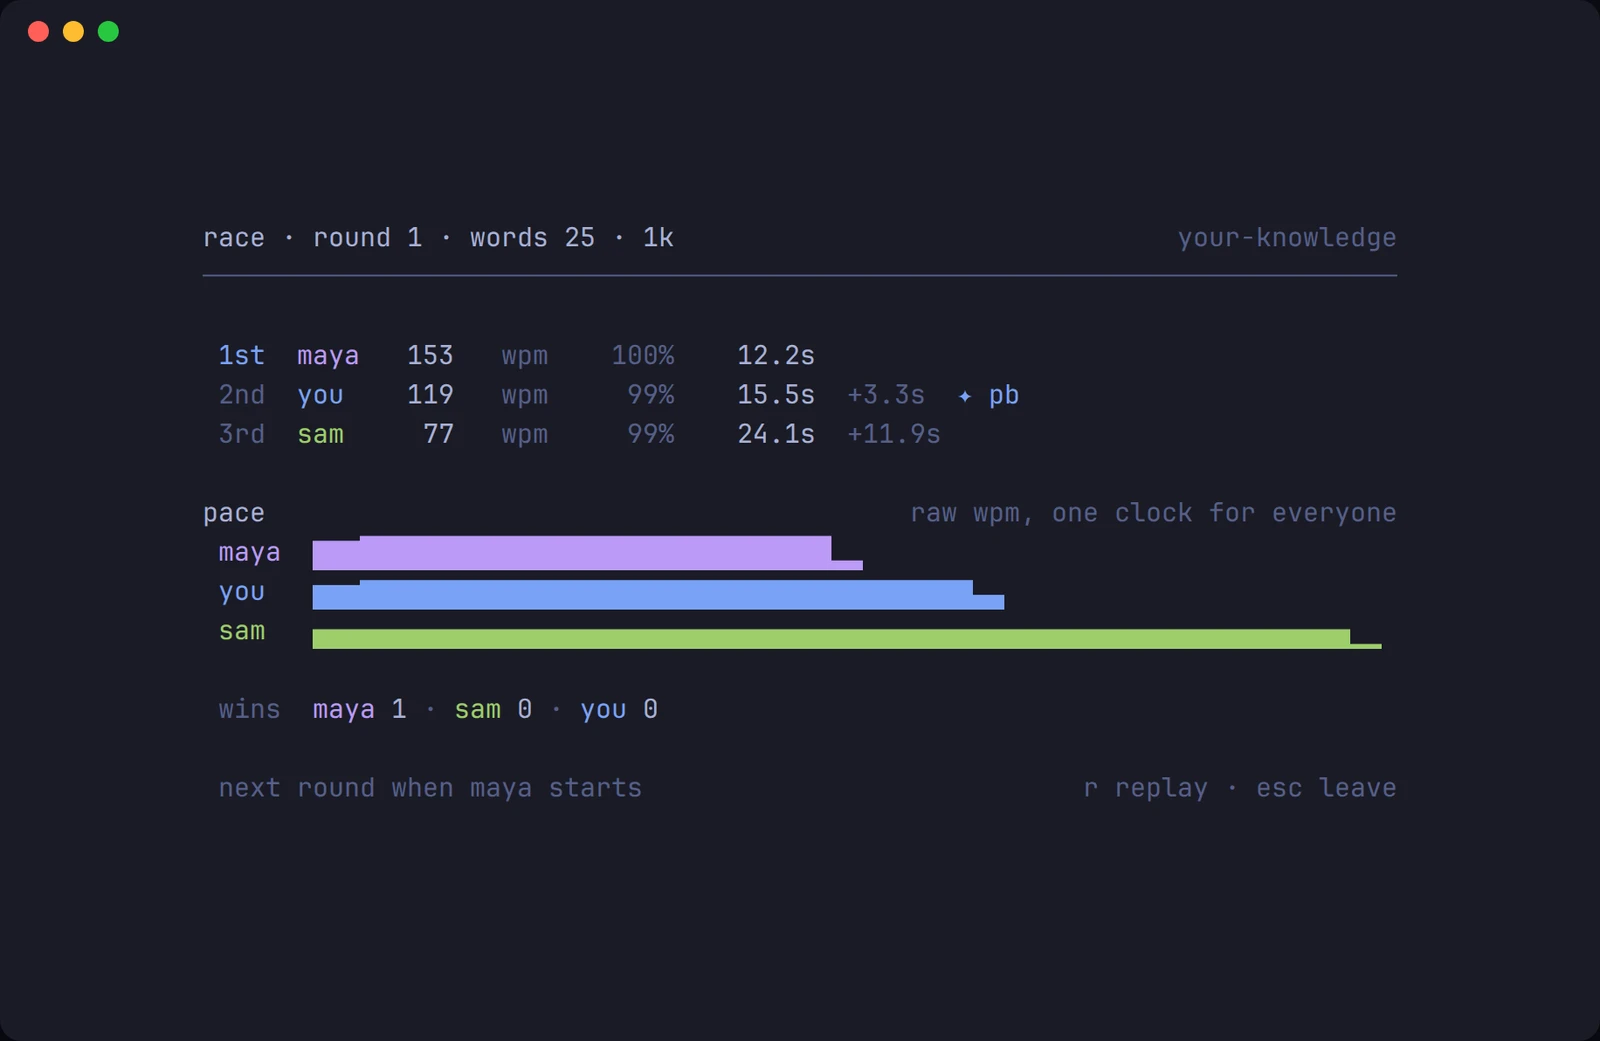
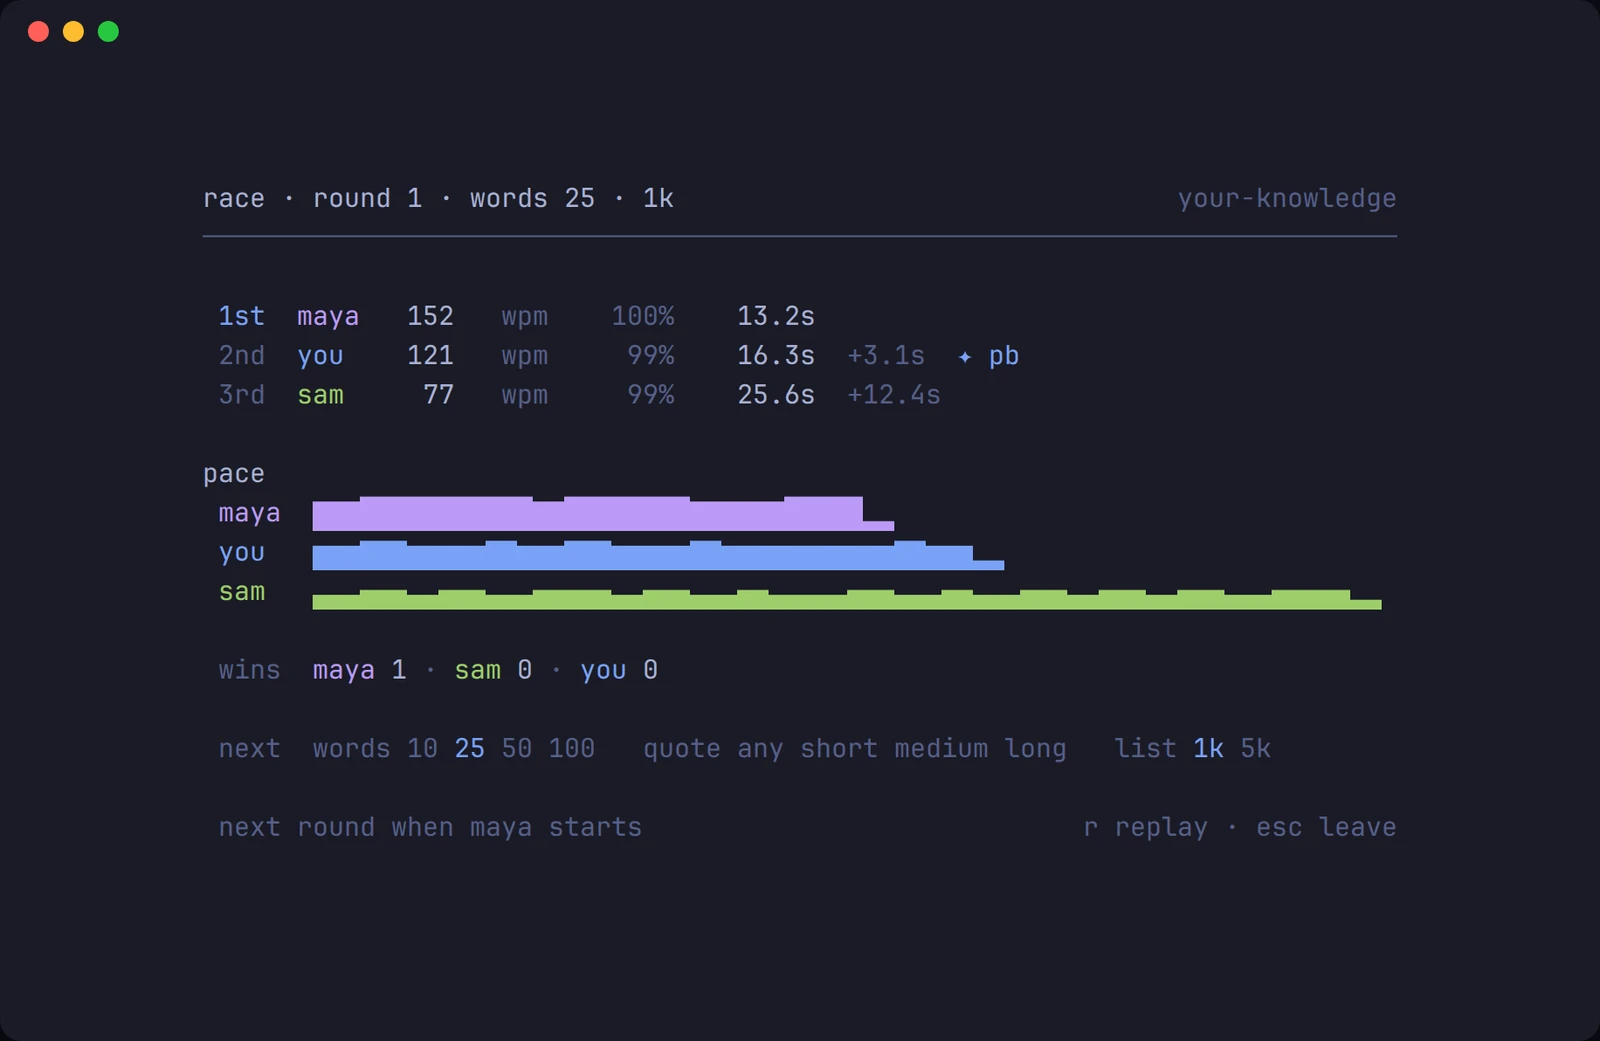
feat(race): change the setup between rounds from the results screen

diff --git a/internal/ui/race.go b/internal/ui/race.go
@@ -7,6 +7,7 @@ import (
 
 	tea "charm.land/bubbletea/v2"
 
+	"github.com/dawsonxiong/thock/internal/content"
 	"github.com/dawsonxiong/thock/internal/history"
 	"github.com/dawsonxiong/thock/internal/lan"
 	"github.com/dawsonxiong/thock/internal/race"
@@ -134,6 +135,14 @@ func (s *session) hostName() string {
 		}
 	}
 	return "the host"
+}
+
+// between reports whether the host's controls are live: no round is under
+// way. The podium counts even before the room's next update says so, since
+// the results that put it on screen arrive first.
+func (m *Model) between() bool {
+	s := m.race
+	return m.screen == screenPodium || (s.st.Phase != race.PhaseCountdown && s.st.Phase != race.PhaseRacing)
 }
 
 // since is time on the round's clock: zero at the start, negative during the
@@ -500,20 +509,22 @@ func (m *Model) onRaceKey(msg tea.KeyPressMsg) (tea.Model, tea.Cmd) {
 }
 
 // onLobbyKey handles the lobby and the podium, which share their controls:
-// the host picks the setup and starts, and anyone can leave.
+// the host picks the next round's setup and starts it, and anyone can leave.
 func (m *Model) onLobbyKey(msg tea.KeyPressMsg) (tea.Model, tea.Cmd) {
 	s := m.race
 	switch msg.String() {
 	case "esc":
 		return m, m.leaveRace("")
 	case "enter":
-		if s.host() && s.st.Phase != race.PhaseCountdown && s.st.Phase != race.PhaseRacing {
+		if s.host() && m.between() {
 			s.cl.Send(race.Msg{T: race.MsgStart})
 		}
 	case "left", "h":
 		m.cycleSetup(-1)
 	case "right", "l":
 		m.cycleSetup(+1)
+	case "tab":
+		m.cycleList()
 	case "r":
 		if m.screen == screenPodium && s.results != nil {
 			m.startReplay(s, time.Now())
@@ -526,7 +537,7 @@ func (m *Model) onLobbyKey(msg tea.KeyPressMsg) (tea.Model, tea.Cmd) {
 
 func (m *Model) cycleSetup(delta int) {
 	s := m.race
-	if !s.host() || s.st.Phase == race.PhaseCountdown || s.st.Phase == race.PhaseRacing {
+	if !s.host() || !m.between() {
 		return
 	}
 	list := s.st.Setup.List
@@ -542,6 +553,23 @@ func (m *Model) cycleSetup(delta int) {
 	}
 	next := presets[(i+delta+len(presets))%len(presets)]
 	s.st.Setup = next // shown at once; the host's echo confirms it
+	s.cl.Send(race.Msg{T: race.MsgSetup, Setup: &next})
+}
+
+// cycleList switches a words round between the 1k and 5k lists. The choice
+// is kept for when the host steps through the quotes and back.
+func (m *Model) cycleList() {
+	s := m.race
+	if !s.host() || !m.between() || s.st.Setup.Mode != race.ModeWords {
+		return
+	}
+	next := s.st.Setup
+	next.List = "5k"
+	if next.List == s.st.Setup.List {
+		next.List = "1k"
+	}
+	m.opts.List = content.List(next.List)
+	s.st.Setup = next
 	s.cl.Send(race.Msg{T: race.MsgSetup, Setup: &next})
 }
 

diff --git a/internal/ui/raceview.go b/internal/ui/raceview.go
@@ -504,6 +504,7 @@ func (m *Model) lobbyRows(box int) []string {
 			"esc leave")
 	case s.host():
 		hint = fit(box-layout.Width(leftPlain)-2,
+			"←→ setup · tab list · enter start · esc leave",
 			"←→ setup · enter start · esc leave",
 			"enter start · esc leave")
 	default:
@@ -591,7 +592,7 @@ func (m *Model) podiumRows(box int) []string {
 	}
 
 	if pace := m.paceRows(box, nameW); len(pace) > 0 {
-		rows = append(rows, "", m.spread(box, "pace", "raw wpm, one clock for everyone"))
+		rows = append(rows, "", m.paint(m.tbl.Text, "pace"))
 		rows = append(rows, pace...)
 	}
 
@@ -609,10 +610,15 @@ func (m *Model) podiumRows(box int) []string {
 		rows = append(rows, "", m.paint(m.tbl.Text, " — "+s.round.Source))
 	}
 
+	// The next round's setup, which the host can change before the rematch.
+	// The title above names the round just raced, so the two can differ.
+	const next = " next  "
+	rows = append(rows, "", m.paint(m.tbl.Dim, next)+m.setupBar(box-layout.Width(next)))
+
 	rows = append(rows, "")
 	if s.host() {
 		rows = append(rows, m.paint(m.tbl.Dim, fit(box,
-			" enter rematch · ←→ setup · r replay · ctrl+s stats · esc leave",
+			" enter rematch · ←→ setup · tab list · r replay · esc leave",
 			" enter rematch · ←→ setup · r replay · esc leave",
 			" enter rematch · r replay · esc leave")))
 	} else {

diff --git a/internal/ui/race_test.go b/internal/ui/race_test.go
@@ -162,6 +162,27 @@ func TestRaceFromLobbyToPodium(t *testing.T) {
 	if m.screen != screenPodium {
 		t.Error("esc did not leave the replay")
 	}
+
+	// The host can change the rematch's setup from the podium, and the
+	// podium shows what the next round will be.
+	if !strings.Contains(screenText(m), "next  words 10 25 50 100") {
+		t.Errorf("podium does not show the next round's setup:\n%s", screenText(m))
+	}
+	m.Update(tea.KeyPressMsg{Code: tea.KeyTab})
+	pump(t, m, func() bool { return m.race.st.Setup.List == "5k" })
+	m.Update(tea.KeyPressMsg{Code: tea.KeyRight})
+	pump(t, m, func() bool { return m.race.st.Setup.Words == 25 })
+	if !strings.Contains(screenText(m), "words 10 · 1k") {
+		t.Error("the title stopped naming the round that was raced")
+	}
+	m.Update(tea.KeyPressMsg{Code: tea.KeyEnter})
+	pump(t, m, func() bool { return m.screen == screenRace && m.race.round.Round == 2 })
+	if n := len(m.race.round.Words); n != len(raceWords) {
+		t.Errorf("round 2 has %d words", n)
+	}
+	if got := m.race.st.Setup; got.Words != 25 || got.List != "5k" {
+		t.Errorf("rematch setup is %+v, want 25 words from the 5k list", got)
+	}
 }
 
 // Every key must mean the same here as in the host's replay of it, or a finish

diff --git a/README.md b/README.md
@@ -101,7 +101,7 @@ Rooms announce themselves on the local network, so `thock race` usually finds th
 | :-: | :-: |
 | <img src="docs/screenshots/race-lobby.webp" alt="The race lobby: the thock banner, the race setup, three racers and the command to join" width="400"> | <img src="docs/screenshots/race-podium.webp" alt="Race results: places, wpm, accuracy and finishing times, each racer's pace on a shared clock, and a running tally of wins" width="400"> |
 
-The host picks the setup with `←→` and starts each round with `enter`. Anyone can press `esc` to give up a round or leave the room. A room holds up to eight racers, and anyone who arrives mid-round races in the next one.
+The host picks the setup with `←→` (and the word list with `tab`) and starts each round with `enter`. The results screen shows the next round's setup too, so the host can change it before the rematch. Anyone can press `esc` to give up a round or leave the room. A room holds up to eight racers, and anyone who arrives mid-round races in the next one.
 
 Everyone's finishing time is measured on their own machine from a shared start, so network lag doesn't decide who wins. The host scores every run from its keystrokes with the same formulas as a solo test. A race counts toward your personal bests like any other words or quote test.
 
